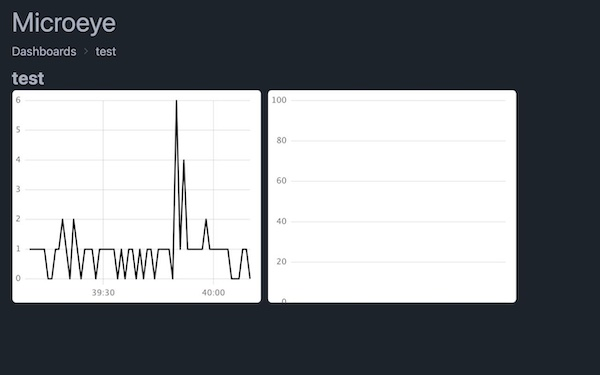
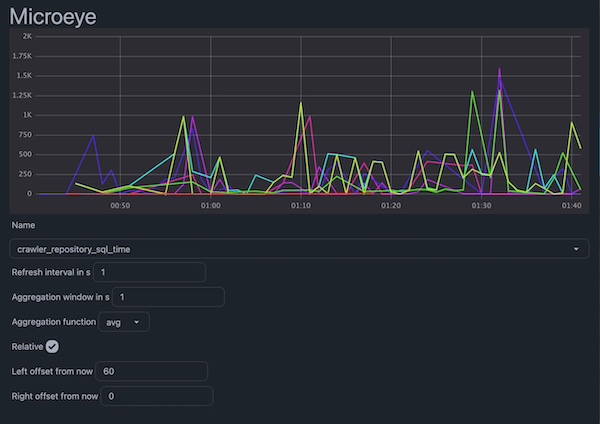
Colored graphs

diff --git a/front/src/lib/api.ts b/front/src/lib/api.ts
@@ -1,12 +1,7 @@
-import Yagr from '@gravity-ui/yagr';
-import type {
-	IPaginateParams,
-	IWithPagination,
-	MergedLines,
-	MetricsRequest,
-	NDashboard
-} from './types';
+import Yagr, { type YagrConfig } from '@gravity-ui/yagr';
+import { getSimpleColor } from './color';
 import { HOST } from './constants';
+import type { IWithPagination, MergedLines, MetricsRequest, NDashboard } from './types';
 
 export async function fetchMetrics(request: MetricsRequest): Promise<MergedLines> {
 	const res: MergedLines = await fetch(`${HOST}/metrics`, {
@@ -27,11 +22,12 @@ export async function fetchAndDraw(
 ): Promise<Yagr> {
 	const res = await fetchMetrics(request);
 
-	const series = res.lines.map((line) => {
+	const series: YagrConfig['series'] = res.lines.map((line, lineIndex) => {
 		return {
 			id: line.name + JSON.stringify(line.labels),
 			data: line.values,
-			name: line.name + JSON.stringify(line.labels)
+			name: line.name + JSON.stringify(line.labels),
+			color: getSimpleColor(lineIndex, res.lines.length)
 		};
 	});
 
@@ -44,6 +40,9 @@ export async function fetchAndDraw(
 				series: {
 					spanGaps: true,
 					type: 'line'
+				},
+				appearance: {
+					theme: 'dark'
 				}
 			}
 		});

diff --git a/front/src/lib/components/Chart.svelte b/front/src/lib/components/Chart.svelte
@@ -1,5 +1,5 @@
 <script lang="ts">
-	import Yagr from '@gravity-ui/yagr';
+	import Yagr, { type YagrConfig } from '@gravity-ui/yagr';
 	import { onMount } from 'svelte';
 
 	import type { MergedLines } from '$lib/types';
@@ -36,6 +36,9 @@
 				series: {
 					spanGaps: true,
 					type: 'line'
+				},
+				appearance: {
+					theme: 'dark'
 				}
 			}
 		});
@@ -43,11 +46,12 @@
 
 	$: {
 		if (yagr) {
-			const series = data.lines.map((line) => {
+			const series: YagrConfig['series'] = data.lines.map((line) => {
 				return {
 					id: line.name + JSON.stringify(line.labels),
 					data: line.values,
-					name: line.name + JSON.stringify(line.labels)
+					name: line.name + JSON.stringify(line.labels),
+					color: 'ff0000'
 				};
 			});
 

diff --git a/front/src/routes/dashboards/[id]/+page.svelte b/front/src/routes/dashboards/[id]/+page.svelte
@@ -1,7 +1,6 @@
 <script>
 	import { page } from '$app/stores';
 	import AutoDashboard from '$lib/components/AutoDashboard.svelte';
-	import { nowSec } from '$lib/time';
 
 	let id = $page.params.id;
 </script>

diff --git a/front/src/lib/color.ts b/front/src/lib/color.ts
@@ -1,0 +1,3 @@
+export function getSimpleColor(lineIndex: number, totalLines: number) {
+	return `hsl(${(lineIndex * 360) / totalLines}, 70%, 50%)`;
+}

diff --git a/README.md b/README.md
@@ -17,3 +17,25 @@ curl -X POST -H "Content-Type: application/json" -d '{"name":"cpu","labels":{"a"
 ```
 
 or use example pushers from `./pusher` directory.
+
+To push metrics from js use or make your own pusher
+
+```js
+import axios from "axios";
+
+class Pusher {
+  constructor(host) {
+    this.host = host;
+  }
+
+  async pushMetric(name, value, labels) {
+    await axios.post(`${this.host}/push`, {
+      name,
+      value,
+      labels,
+    });
+  }
+}
+
+export default Pusher;
+```
